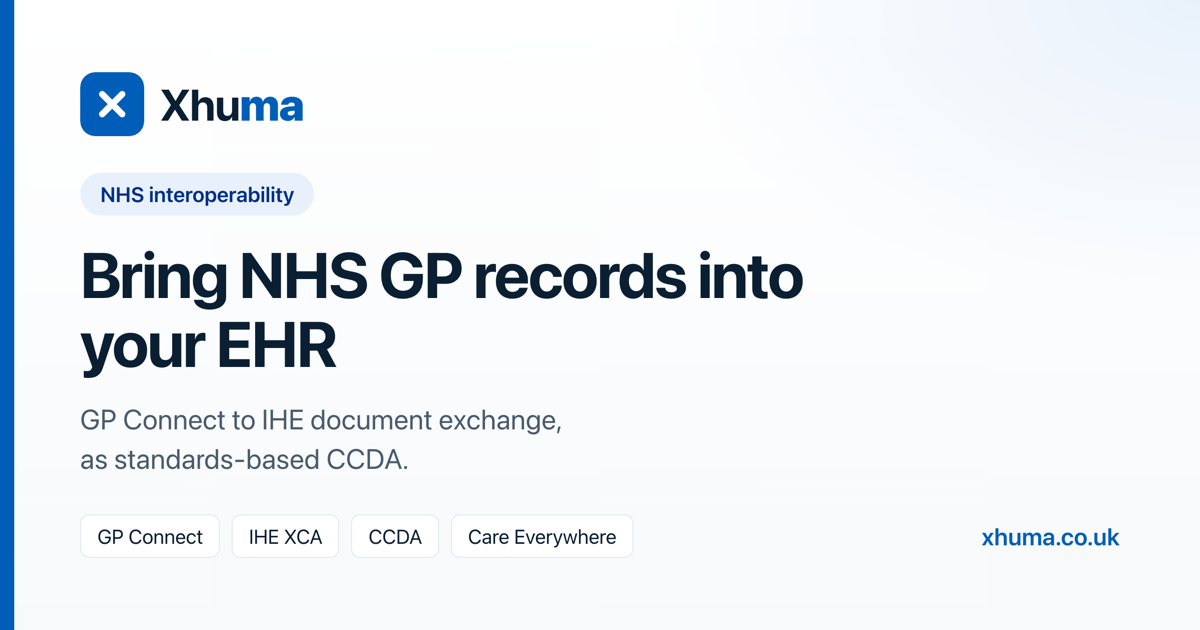
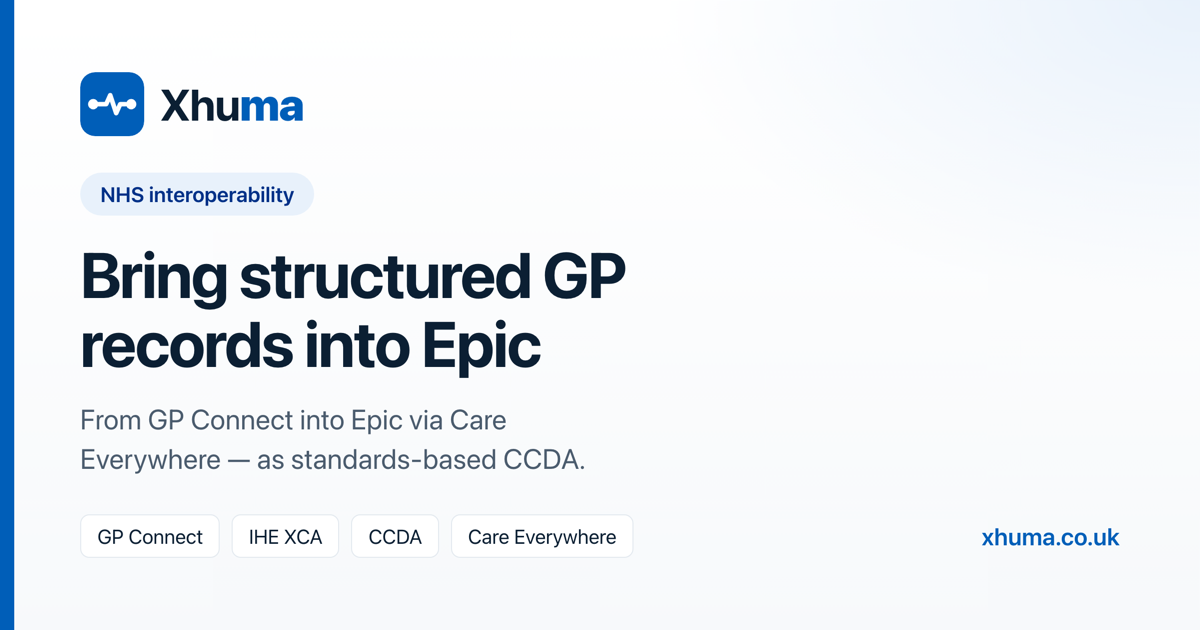
New 'connected pulse' brand mark; tidy IG assurance wording; refresh OG image

diff --git a/index.html b/index.html
@@ -108,7 +108,7 @@
 <body>
 <header>
   <div class="wrap nav">
-    <span class="brand"><svg viewBox="0 0 32 32" xmlns="http://www.w3.org/2000/svg" aria-hidden="true"><rect width="32" height="32" rx="7.5" fill="#005eb8"/><path d="M11 11l10 10M21 11L11 21" fill="none" stroke="#fff" stroke-width="3.2" stroke-linecap="round"/></svg><span>Xhu<b>ma</b></span></span>
+    <span class="brand"><svg viewBox="0 0 32 32" xmlns="http://www.w3.org/2000/svg" aria-hidden="true"><rect width="32" height="32" rx="7.5" fill="#005eb8"/><circle cx="6.5" cy="16" r="2.6" fill="#fff"/><circle cx="25.5" cy="16" r="2.6" fill="#fff"/><path d="M9.2 16H13l2-4.5 3 9 2-4.5h2.6" fill="none" stroke="#fff" stroke-width="2.3" stroke-linecap="round" stroke-linejoin="round"/></svg><span>Xhu<b>ma</b></span></span>
     <nav class="nav-links">
       <a href="#product">What it does</a>
       <a href="#how">How it works</a>
@@ -203,8 +203,8 @@
     <p class="lead">The Xhuma software is technically complete. The team is now taking the service through the NHS supplier conformance assessment (SCAL) process and full clinical and information-governance assurance:</p>
     <ul class="checks">
       <li>Clinical risk management <span>— DCB0129 &amp; DCB0160</span></li>
-      <li>Data Security &amp; Protection <span>— DSP Toolkit</span></li>
-      <li>Information governance <span>— IG</span></li>
+      <li>Data security &amp; protection <span>— DSP Toolkit</span></li>
+      <li>Information governance <span>— UK GDPR &amp; DPA 2018</span></li>
       <li>Cyber security <span>— OWASP testing &amp; assurance</span></li>
     </ul>
   </section>
